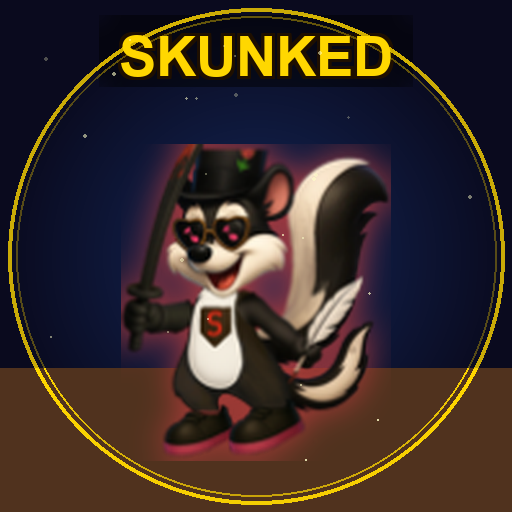
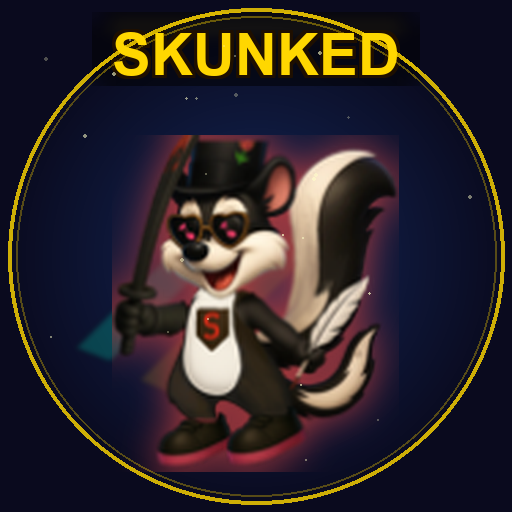
art updates
art updates

diff --git a/generate_play_store_assets.py b/generate_play_store_assets.py
@@ -59,6 +59,16 @@ def scale_to_fit(img, max_w, max_h):
     return img.resize((int(w * ratio), int(h * ratio)), Image.LANCZOS)
 
 
+def cover_fit(img, target_w, target_h):
+    """Scale img to fully cover target_w x target_h, then center-crop."""
+    w, h = img.size
+    ratio = max(target_w / w, target_h / h)
+    resized = img.resize((int(w * ratio), int(h * ratio)), Image.LANCZOS)
+    left = max(0, (resized.size[0] - target_w) // 2)
+    top = max(0, (resized.size[1] - target_h) // 2)
+    return resized.crop((left, top, left + target_w, top + target_h))
+
+
 def draw_text_with_outline(draw, xy, text, font, fill, outline_fill, outline_width=3):
     """Draw text with an outline/stroke for readability."""
     x, y = xy
@@ -96,6 +106,18 @@ def add_glow(canvas, sprite, position, glow_color=(0, 255, 200), glow_radius=12)
     canvas.paste(sprite, position, sprite)
 
 
+def draw_feature_chip(draw, box, text, font, fill, outline, text_fill):
+    """Draw a compact rounded badge for store-art feature callouts."""
+    left, top, right, bottom = box
+    draw.rounded_rectangle(box, radius=18, fill=fill, outline=outline, width=2)
+    bbox = draw.textbbox((0, 0), text, font=font)
+    tw = bbox[2] - bbox[0]
+    th = bbox[3] - bbox[1]
+    tx = left + (right - left - tw) // 2
+    ty = top + (bottom - top - th) // 2 - 2
+    draw_text_with_outline(draw, (tx, ty), text, font, text_fill, (0, 0, 0), outline_width=1)
+
+
 # ---------------------------------------------------------------------------
 # 1. Feature Graphic  (1024 x 500)
 # ---------------------------------------------------------------------------
@@ -104,14 +126,24 @@ def generate_feature_graphic():
     """Create the Play Store feature graphic (1024x500)."""
     W, H = 1024, 500
 
-    # --- Background: forest_bg, darkened + blurred for depth ---
+    # --- Background: forest_bg, cover-fit + softened for depth ---
     bg = Image.open(os.path.join(SPRITES, "backgrounds", "forest_bg.png")).convert("RGBA")
-    bg = bg.resize((W, H), Image.LANCZOS)
-    bg = ImageEnhance.Brightness(bg).enhance(0.45)
-    bg = bg.filter(ImageFilter.GaussianBlur(4))
+    bg = cover_fit(bg, W, H)
+    bg = ImageEnhance.Brightness(bg).enhance(0.34)
+    bg = bg.filter(ImageFilter.GaussianBlur(5))
 
     canvas = bg.copy()
     draw = ImageDraw.Draw(canvas)
+
+    # --- Atmospheric color wash and motion streaks ---
+    wash = Image.new("RGBA", (W, H), (0, 0, 0, 0))
+    wash_draw = ImageDraw.Draw(wash)
+    wash_draw.rectangle([0, 0, W, H], fill=(10, 12, 20, 120))
+    for i in range(5):
+        y = 70 + i * 52
+        wash_draw.line([(52, y), (W - 220, y - 36)], fill=(0, 255, 200, 14), width=8)
+        wash_draw.line([(122, y + 16), (W - 130, y - 14)], fill=(255, 215, 0, 10), width=3)
+    canvas = Image.alpha_composite(canvas, wash)
 
     # --- Gradient overlay: dark edges for vignette ---
     vignette = Image.new("RGBA", (W, H), (0, 0, 0, 0))
@@ -133,31 +165,46 @@ def generate_feature_graphic():
         vig_draw.line([(0, y), (W, y)], fill=(0, 0, 0, alpha))
     canvas = Image.alpha_composite(canvas, vignette)
 
-    # --- Iron Claw (boss2) — attack pose, left side ---
-    iron_claw = extract_frame(
+    # --- Ninja hero on the left ---
+    ninja = extract_frame(
+        os.path.join(SPRITES, "characters", "ninja_attack.png"), frame_index=0
+    )
+    ninja = trim_transparent(ninja)
+    ninja = scale_to_height(ninja, int(H * 0.82))
+    px = 34
+    py = H - ninja.size[1] - 12
+    add_glow(canvas, ninja, (px, py), glow_color=(0, 255, 200), glow_radius=14)
+
+    # --- Boss threat on the right ---
+    boss = extract_frame(
         os.path.join(SPRITES, "enemies", "boss2_attack.png"), frame_index=0
     )
-    iron_claw = trim_transparent(iron_claw)
-    iron_claw = scale_to_height(iron_claw, int(H * 0.80))
-    px = 50
-    py = H - iron_claw.size[1] - 15
-    add_glow(canvas, iron_claw, (px, py), glow_color=(180, 60, 60), glow_radius=12)
+    boss = trim_transparent(boss)
+    boss = scale_to_height(boss, int(H * 0.76))
+    boss = boss.transpose(Image.FLIP_LEFT_RIGHT)
+    bx = W - boss.size[0] - 28
+    by = H - boss.size[1] - 8
+    add_glow(canvas, boss, (bx, by), glow_color=(255, 140, 80), glow_radius=14)
 
-    # --- Malodor (boss4) — idle pose, right side ---
-    malodor = extract_frame(
-        os.path.join(SPRITES, "enemies", "boss4_idle.png"), frame_index=0
+    # --- Mid-frame energy ribbon to pull the eye toward the title ---
+    ribbon = Image.new("RGBA", (W, H), (0, 0, 0, 0))
+    ribbon_draw = ImageDraw.Draw(ribbon)
+    ribbon_draw.polygon(
+        [(300, 370), (452, 188), (510, 194), (360, 382)],
+        fill=(0, 255, 200, 30),
     )
-    malodor = trim_transparent(malodor)
-    malodor = scale_to_height(malodor, int(H * 0.72))
-    malodor = malodor.transpose(Image.FLIP_LEFT_RIGHT)
-    kx = W - malodor.size[0] - 50
-    ky = H - malodor.size[1] - 15
-    add_glow(canvas, malodor, (kx, ky), glow_color=(255, 160, 30), glow_radius=12)
+    ribbon_draw.polygon(
+        [(392, 382), (544, 186), (586, 192), (438, 392)],
+        fill=(255, 215, 0, 22),
+    )
+    ribbon = ribbon.filter(ImageFilter.GaussianBlur(2))
+    canvas = Image.alpha_composite(canvas, ribbon)
 
     # --- Title text ---
     draw = ImageDraw.Draw(canvas)
     title_font = get_font(82, bold=True)
     sub_font = get_font(30, bold=True)
+    chip_font = get_font(20, bold=True)
 
     title = "SKUNKED"
     subtitle = "Way of the Spray"
@@ -170,20 +217,21 @@ def generate_feature_graphic():
     sub_bbox = draw.textbbox((0, 0), subtitle, font=sub_font)
     sw = sub_bbox[2] - sub_bbox[0]
 
-    # Center title horizontally with slight right offset (characters are on left+right)
-    tx = (W - tw) // 2 + 20
-    ty = 50
+    # Center title with a small left bias so the hero silhouette balances it.
+    tx = (W - tw) // 2 + 6
+    ty = 48
 
-    # Title glow background
-    glow_pad = 20
+    # Title panel
+    glow_pad = 24
     glow_rect = Image.new("RGBA", (tw + glow_pad * 2, th + glow_pad * 2 + 50), (0, 0, 0, 0))
     glow_draw = ImageDraw.Draw(glow_rect)
     glow_draw.rounded_rectangle(
         [0, 0, tw + glow_pad * 2, th + glow_pad * 2 + 50],
-        radius=20,
-        fill=(0, 0, 0, 100),
+        radius=24,
+        fill=(6, 8, 16, 160),
     )
-    glow_rect = glow_rect.filter(ImageFilter.GaussianBlur(10))
+    glow_draw.line([(18, 16), (tw + glow_pad * 2 - 18, 16)], fill=(255, 215, 0, 120), width=3)
+    glow_rect = glow_rect.filter(ImageFilter.GaussianBlur(8))
     canvas.paste(
         glow_rect,
         (tx - glow_pad, ty - glow_pad),
@@ -211,24 +259,36 @@ def generate_feature_graphic():
 
     # --- Decorative line under subtitle ---
     line_y = sy + 40
-    line_half = 120
+    line_half = 126
     cx = sx + sw // 2
     for i in range(line_half):
-        alpha = int(200 * (1 - i / line_half))
+        alpha = int(210 * (1 - i / line_half))
         draw.point((cx - i, line_y), fill=(255, 215, 0, alpha))
         draw.point((cx + i, line_y), fill=(255, 215, 0, alpha))
         draw.point((cx - i, line_y + 1), fill=(255, 215, 0, alpha // 2))
         draw.point((cx + i, line_y + 1), fill=(255, 215, 0, alpha // 2))
+
+    # --- Store listing callouts ---
+    chip_y = H - 78
+    chip_w = 186
+    chip_gap = 18
+    total_chips = chip_w * 2 + chip_gap
+    chip_x = (W - total_chips) // 2
+    chip_fill = (12, 16, 28, 208)
+    chip_outline = (255, 215, 0, 165)
+    chip_text = (245, 245, 245, 255)
+    draw_feature_chip(draw, (chip_x, chip_y, chip_x + chip_w, chip_y + 44), "ACHIEVEMENTS", chip_font, chip_fill, chip_outline, chip_text)
+    draw_feature_chip(draw, (chip_x + chip_w + chip_gap, chip_y, chip_x + total_chips, chip_y + 44), "LEADERBOARDS", chip_font, chip_fill, chip_outline, chip_text)
 
     # --- Action particles (small dots scattered) ---
     import random
     random.seed(42)  # deterministic
     particle_layer = Image.new("RGBA", (W, H), (0, 0, 0, 0))
     p_draw = ImageDraw.Draw(particle_layer)
-    for _ in range(60):
+    for _ in range(42):
         rx = random.randint(0, W)
         ry = random.randint(0, H)
-        size = random.randint(1, 4)
+        size = random.randint(1, 3)
         color = random.choice([
             (255, 215, 0, random.randint(80, 180)),   # gold sparkle
             (0, 255, 200, random.randint(60, 150)),    # cyan
@@ -269,6 +329,14 @@ def generate_app_icon():
             fill=(cr, cg, cb, 255),
         )
 
+    # --- Diagonal accent slash for more punch at icon size ---
+    accent = Image.new("RGBA", (SIZE, SIZE), (0, 0, 0, 0))
+    a_draw = ImageDraw.Draw(accent)
+    a_draw.polygon([(74, 348), (216, 206), (252, 220), (110, 362)], fill=(0, 255, 200, 54))
+    a_draw.polygon([(138, 380), (286, 232), (318, 246), (170, 394)], fill=(255, 215, 0, 36))
+    accent = accent.filter(ImageFilter.GaussianBlur(3))
+    canvas = Image.alpha_composite(canvas, accent)
+
     # --- Dojo floor hint (subtle horizontal stripe at bottom) ---
     floor_y = int(SIZE * 0.72)
     for y in range(floor_y, SIZE):
@@ -281,29 +349,30 @@ def generate_app_icon():
         os.path.join(SPRITES, "enemies", "boss2_idle.png"), frame_index=0
     )
     char = trim_transparent(char)
-    char_h = int(SIZE * 0.62)
+    char_h = int(SIZE * 0.66)
     char = scale_to_height(char, char_h)
 
     # Center character
     cx = (SIZE - char.size[0]) // 2
-    cy = SIZE - char.size[1] - int(SIZE * 0.10)
-    add_glow(canvas, char, (cx, cy), glow_color=(180, 60, 60), glow_radius=16)
+    cy = SIZE - char.size[1] - int(SIZE * 0.08)
+    add_glow(canvas, char, (cx, cy), glow_color=(180, 60, 60), glow_radius=18)
 
     # --- Title text "SKUNKED" arched across top ---
     draw = ImageDraw.Draw(canvas)
-    title_font = get_font(56, bold=True)
+    title_font = get_font(58, bold=True)
     title = "SKUNKED"
 
     title_bbox = draw.textbbox((0, 0), title, font=title_font)
     tw = title_bbox[2] - title_bbox[0]
     th = title_bbox[3] - title_bbox[1]
     tx = (SIZE - tw) // 2
-    ty = 25
+    ty = 22
 
     # Text backdrop glow
     glow_bg = Image.new("RGBA", (tw + 40, th + 30), (0, 0, 0, 0))
     g_draw = ImageDraw.Draw(glow_bg)
-    g_draw.rounded_rectangle([0, 0, tw + 40, th + 30], radius=15, fill=(0, 0, 0, 120))
+    g_draw.rounded_rectangle([0, 0, tw + 40, th + 30], radius=18, fill=(0, 0, 0, 130))
+    g_draw.line([(18, 14), (tw + 22, 14)], fill=(255, 215, 0, 110), width=2)
     glow_bg = glow_bg.filter(ImageFilter.GaussianBlur(8))
     canvas.paste(glow_bg, (tx - 20, ty - 10), glow_bg)
 
@@ -319,7 +388,7 @@ def generate_app_icon():
     ring = Image.new("RGBA", (SIZE, SIZE), (0, 0, 0, 0))
     r_draw = ImageDraw.Draw(ring)
     # Outer gold ring
-    r_draw.ellipse([8, 8, SIZE - 8, SIZE - 8], outline=(255, 215, 0, 200), width=4)
+    r_draw.ellipse([8, 8, SIZE - 8, SIZE - 8], outline=(255, 215, 0, 205), width=4)
     # Inner subtle ring
     r_draw.ellipse([16, 16, SIZE - 16, SIZE - 16], outline=(255, 215, 0, 80), width=2)
     canvas = Image.alpha_composite(canvas, ring)
